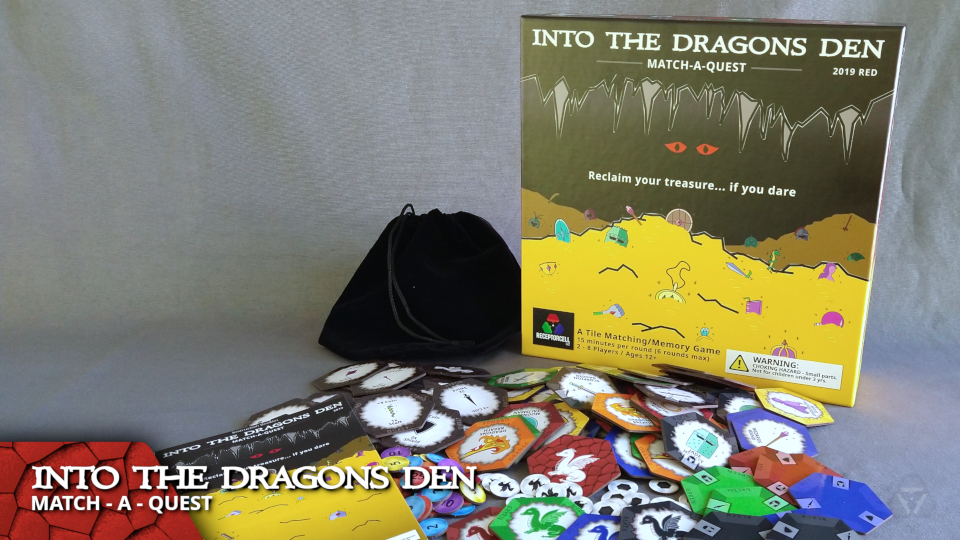
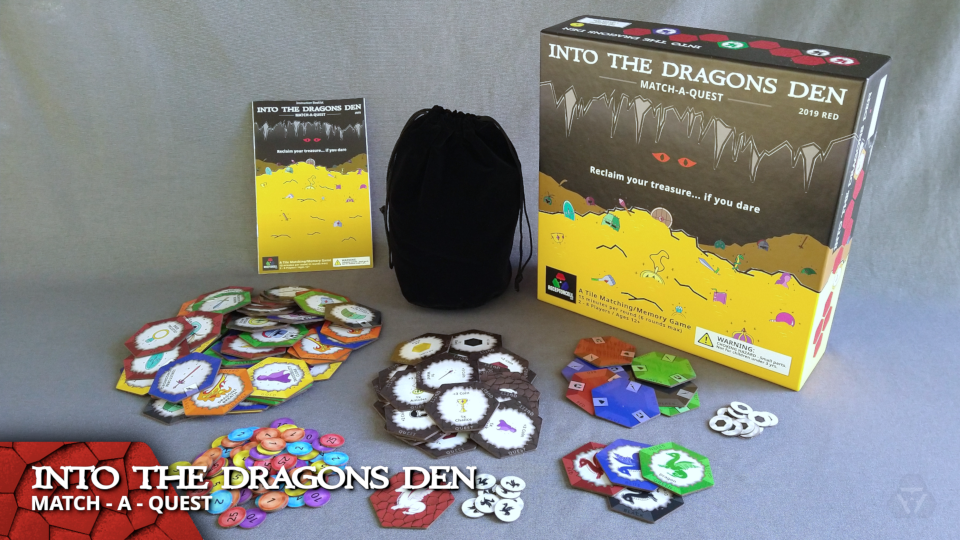
Updated Into The Dragons Den image assets.

diff --git a/_tabletop_games/IntoTheDragonsDen.md b/_tabletop_games/IntoTheDragonsDen.md
@@ -73,43 +73,37 @@ The 4 Dragon tile examples and a Dragon Breath tile example:
 
 ## See It In Action
 
-![image 1]({{ site.baseurl }}/assets/img/projects/tabletop_games/into_the_dragons_den/IntoTheDragonsDen_MatchAQuest.png){:.lead width="1920" height="1080" loading="lazy"}
+![image 1]({{ site.baseurl }}/assets/img/projects/tabletop_games/into_the_dragons_den/IntoTheDragonsDen_MatchAQuest.png){:.lead width="960" height="540" loading="lazy"}
 
-![image 2]({{ site.baseurl }}/assets/img/projects/tabletop_games/into_the_dragons_den/IntoTheDragonsDen_DragonsDen.png){:.lead width="1920" height="1080" loading="lazy"}
+![image 2]({{ site.baseurl }}/assets/img/projects/tabletop_games/into_the_dragons_den/IntoTheDragonsDen_DragonsDen.png){:.lead width="960" height="540" loading="lazy"}
 
-![image 3]({{ site.baseurl }}/assets/img/projects/tabletop_games/into_the_dragons_den/IntoTheDragonsDen_SecretQuests.png){:.lead width="1920" height="1080" loading="lazy"}
+![image 3]({{ site.baseurl }}/assets/img/projects/tabletop_games/into_the_dragons_den/IntoTheDragonsDen_SecretQuests.png){:.lead width="960" height="540" loading="lazy"}
 
-![image 4]({{ site.baseurl }}/assets/img/projects/tabletop_games/into_the_dragons_den/IntoTheDragonsDen_Villagers.png){:.lead width="1920" height="1080" loading="lazy"}
+![image 4]({{ site.baseurl }}/assets/img/projects/tabletop_games/into_the_dragons_den/IntoTheDragonsDen_Villagers.png){:.lead width="960" height="540" loading="lazy"}
 
-![image 5]({{ site.baseurl }}/assets/img/projects/tabletop_games/into_the_dragons_den/IntoTheDragonsDen_FoundDragons.png){:.lead width="1920" height="1080" loading="lazy"}
+![image 5]({{ site.baseurl }}/assets/img/projects/tabletop_games/into_the_dragons_den/IntoTheDragonsDen_FoundDragons.png){:.lead width="960" height="540" loading="lazy"}
 
-![image 6]({{ site.baseurl }}/assets/img/projects/tabletop_games/into_the_dragons_den/IntoTheDragonsDen_CoinsEarned.png){:.lead width="1920" height="1080" loading="lazy"}
+![image 6]({{ site.baseurl }}/assets/img/projects/tabletop_games/into_the_dragons_den/IntoTheDragonsDen_CoinsEarned.png){:.lead width="960" height="540" loading="lazy"}
 
-![image 7]({{ site.baseurl }}/assets/img/projects/tabletop_games/into_the_dragons_den/IntoTheDragonsDen_InstructionBooklet.png){:.lead width="1920" height="1080" loading="lazy"}
+![image 7]({{ site.baseurl }}/assets/img/projects/tabletop_games/into_the_dragons_den/IntoTheDragonsDen_InstructionBooklet.png){:.lead width="960" height="540" loading="lazy"}
 
-<!-- ![image 8]({{ site.baseurl }}/assets/img/projects/tabletop_games/into_the_dragons_den/IntoTheDragonsDen_SetupQuestTiles.png){:.lead width="1920" height="1080" loading="lazy"}
+![image 8]({{ site.baseurl }}/assets/img/projects/tabletop_games/into_the_dragons_den/IntoTheDragonsDen_SetupQuestTiles.png){:.lead width="960" height="540" loading="lazy"}
 
-![image 9]({{ site.baseurl }}/assets/img/projects/tabletop_games/into_the_dragons_den/IntoTheDragonsDen_SetupDragonTokens.png){:.lead width="1920" height="1080" loading="lazy"}
+![image 9]({{ site.baseurl }}/assets/img/projects/tabletop_games/into_the_dragons_den/IntoTheDragonsDen_SetupDragonTokens.png){:.lead width="1920" height="540" loading="lazy"}
 
-![image 10]({{ site.baseurl }}/assets/img/projects/tabletop_games/into_the_dragons_den/IntoTheDragonsDen_SetupDragonDenTiles.png){:.lead width="1920" height="1080" loading="lazy"} -->
+![image 10]({{ site.baseurl }}/assets/img/projects/tabletop_games/into_the_dragons_den/IntoTheDragonsDen_SetupDragonDenTiles.png){:.lead width="960" height="540" loading="lazy"}
 
-<!-- ![image 1]({{ site.baseurl }}/assets/img/projects/tabletop_games/into_the_dragons_den/IntoTheDragonsDen_01.png){:.lead width="1920" height="1080" loading="lazy"}
+![image 11]({{ site.baseurl }}/assets/img/projects/tabletop_games/into_the_dragons_den/IntoTheDragonsDen_SetupAndBeginningAround.png){:.lead width="960" height="540" loading="lazy"}
 
-![image 2]({{ site.baseurl }}/assets/img/projects/tabletop_games/into_the_dragons_den/IntoTheDragonsDen_02.png){:.lead width="1920" height="1080" loading="lazy"}
+![image 12]({{ site.baseurl }}/assets/img/projects/tabletop_games/into_the_dragons_den/IntoTheDragonsDen_TheRound.png){:.lead width="960" height="540" loading="lazy"}
 
-![image 3]({{ site.baseurl }}/assets/img/projects/tabletop_games/into_the_dragons_den/IntoTheDragonsDen_03.png){:.lead width="1920" height="1080" loading="lazy"}
+![image 13]({{ site.baseurl }}/assets/img/projects/tabletop_games/into_the_dragons_den/IntoTheDragonsDen_KingdomGem.png){:.lead width="960" height="540" loading="lazy"}
 
-![image 4]({{ site.baseurl }}/assets/img/projects/tabletop_games/into_the_dragons_den/IntoTheDragonsDen_04.png){:.lead width="1920" height="1080" loading="lazy"}
+![image 14]({{ site.baseurl }}/assets/img/projects/tabletop_games/into_the_dragons_den/IntoTheDragonsDen_DragonsFound.png){:.lead width="960" height="540" loading="lazy"}
 
-![image 5]({{ site.baseurl }}/assets/img/projects/tabletop_games/into_the_dragons_den/IntoTheDragonsDen_05.png){:.lead width="1920" height="1080" loading="lazy"}
+![image 15]({{ site.baseurl }}/assets/img/projects/tabletop_games/into_the_dragons_den/IntoTheDragonsDen_ScoringTheRound.png){:.lead width="960" height="540" loading="lazy"}
 
-![image 6]({{ site.baseurl }}/assets/img/projects/tabletop_games/into_the_dragons_den/IntoTheDragonsDen_06.png){:.lead width="1920" height="1080" loading="lazy"}
-
-![image 7]({{ site.baseurl }}/assets/img/projects/tabletop_games/into_the_dragons_den/IntoTheDragonsDen_07.png){:.lead width="1920" height="1080" loading="lazy"} -->
-
-<!-- <div class="lead aspect-ratio sixteen-nine">        
-  <iframe src="https://www.youtube.com/embed/u2E5rM9Ph7k" frameborder="0" allow="accelerometer; autoplay; clipboard-write; encrypted-media; gyroscope; picture-in-picture" allowfullscreen></iframe>
-</div> -->
+![image 16]({{ site.baseurl }}/assets/img/projects/tabletop_games/into_the_dragons_den/IntoTheDragonsDen_GameOver.png){:.lead width="960" height="540" loading="lazy"}
 
 ## Get It Soon
 
